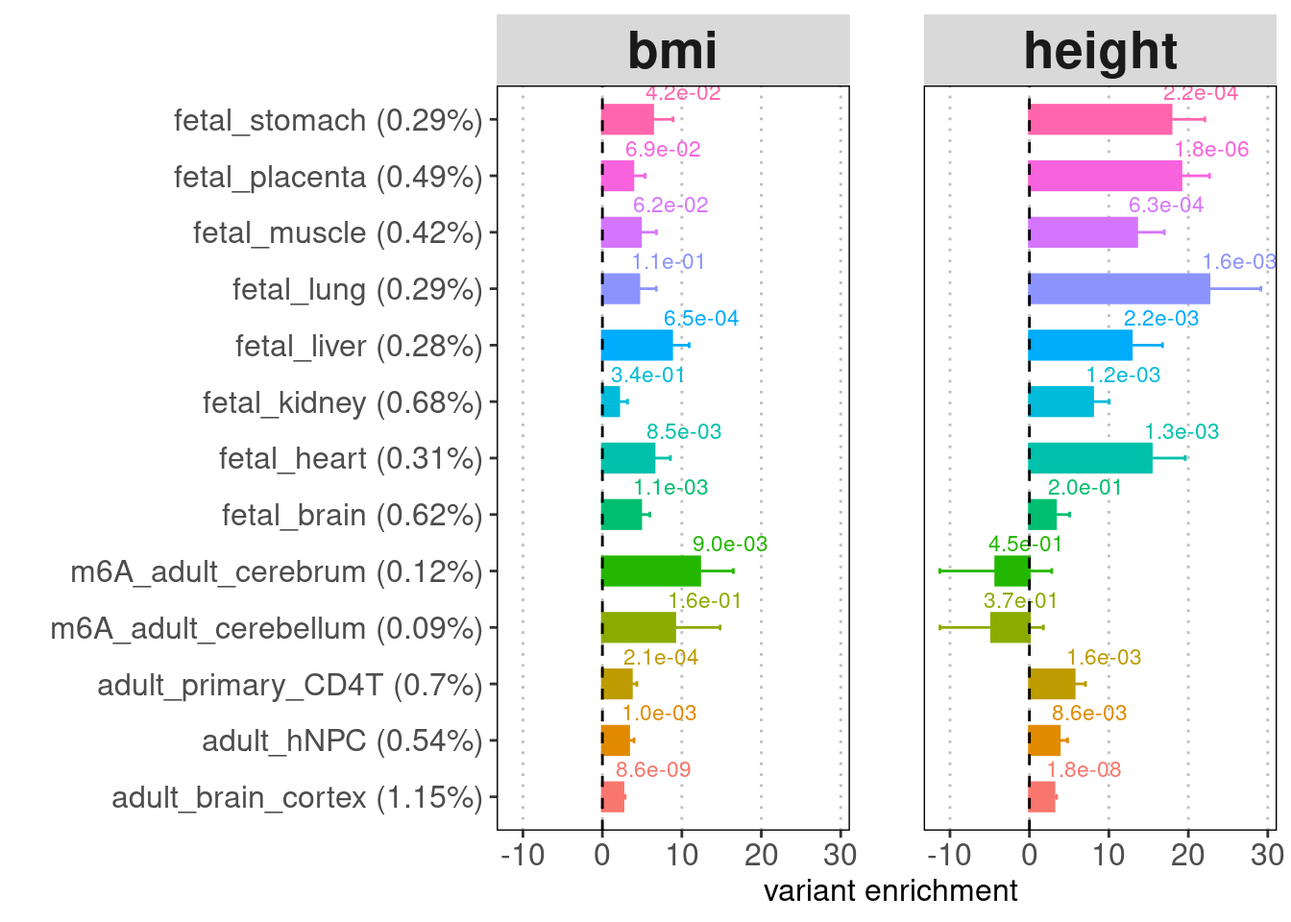
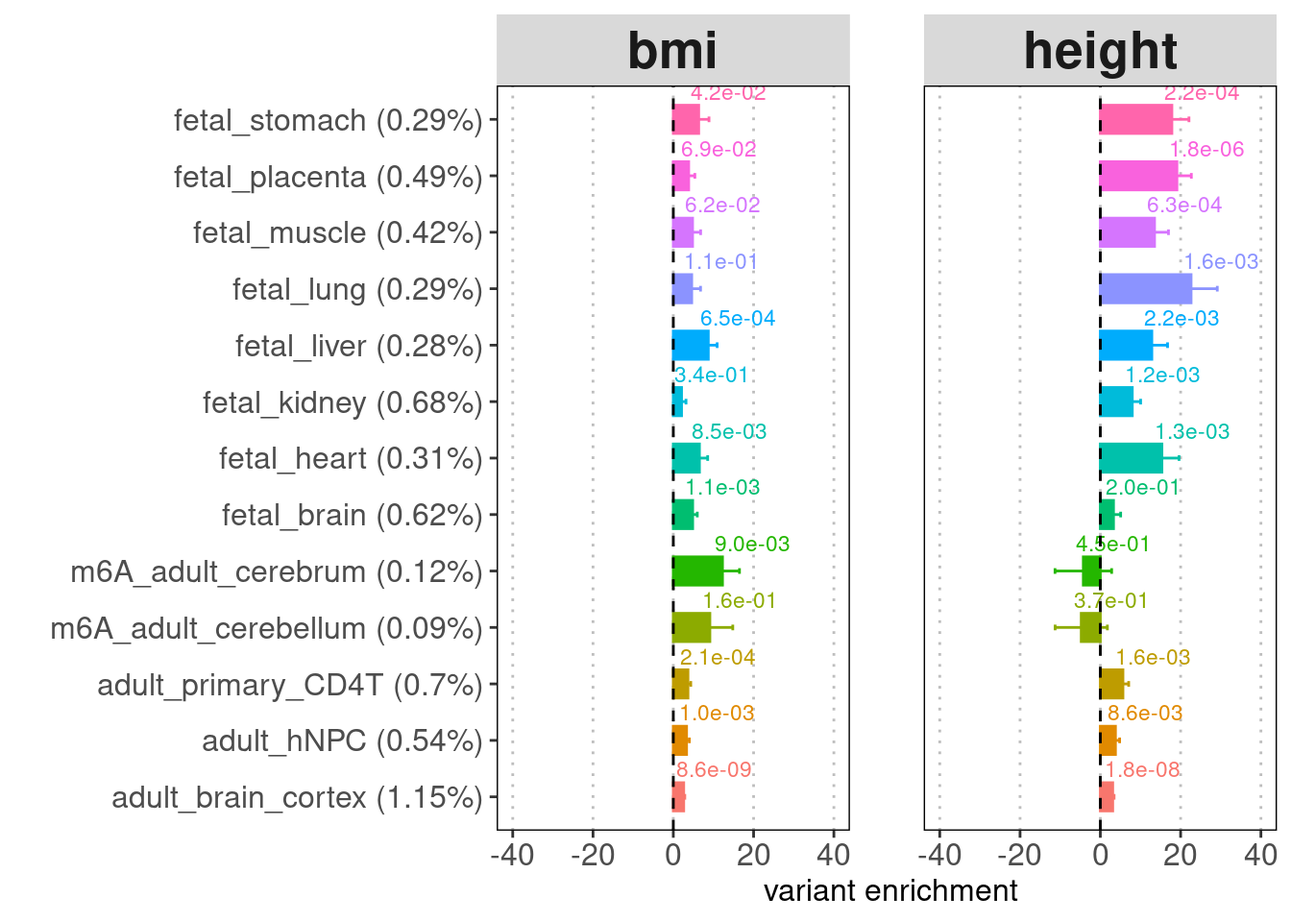
Build site.

diff --git a/docs/AD_h2g_enrichment.html b/docs/AD_h2g_enrichment.html
@@ -11,7 +11,7 @@
 
 <meta name="author" content="Jing Gu" />
 
-<meta name="date" content="2024-10-14" />
+<meta name="date" content="2024-10-15" />
 
 <title>AD Enrichment Analysis</title>
 
@@ -370,7 +370,7 @@ div.tocify {
 
 <h1 class="title toc-ignore">AD Enrichment Analysis</h1>
 <h4 class="author">Jing Gu</h4>
-<h4 class="date">2024-10-14</h4>
+<h4 class="date">2024-10-15</h4>
 
 </div>
 
@@ -399,7 +399,7 @@ class="glyphicon glyphicon-ok text-success" aria-hidden="true"></span>
 <div class="tab-content">
 <div id="summary" class="tab-pane fade in active">
 <p>
-<strong>Last updated:</strong> 2024-10-14
+<strong>Last updated:</strong> 2024-10-15
 </p>
 <p>
 <strong>Checks:</strong> <span
@@ -530,15 +530,15 @@ project makes it easier to run your code on other machines.</p>
 <div class="panel panel-default">
 <div class="panel-heading">
 <p class="panel-title">
-<a data-toggle="collapse" data-parent="#workflowr-checks" href="#strongRepositoryversionstrongahrefhttpsgithubcomj3gum6Aindiseasegeneticstreeaf7cb3190919c252fb5071c6749dc87c823ed3b1targetblankaf7cb31a">
+<a data-toggle="collapse" data-parent="#workflowr-checks" href="#strongRepositoryversionstrongahrefhttpsgithubcomj3gum6Aindiseasegeneticstree31b6e5592bc4c2b18f44aa31a9c635ad0a922a88targetblank31b6e55a">
 <span class="glyphicon glyphicon-ok text-success"
 aria-hidden="true"></span> <strong>Repository version:</strong>
-<a href="https://github.com/j3gu/m6A_in_disease_genetics/tree/af7cb3190919c252fb5071c6749dc87c823ed3b1" target="_blank">af7cb31</a>
+<a href="https://github.com/j3gu/m6A_in_disease_genetics/tree/31b6e5592bc4c2b18f44aa31a9c635ad0a922a88" target="_blank">31b6e55</a>
 </a>
 </p>
 </div>
 <div
[2 lines of base64/hex data omitted]
 class="panel-collapse collapse">
 <div class="panel-body">
 <p>
@@ -548,7 +548,7 @@ reproducibility.
 </p>
 <p>
 The results in this page were generated with repository version
-<a href="https://github.com/j3gu/m6A_in_disease_genetics/tree/af7cb3190919c252fb5071c6749dc87c823ed3b1" target="_blank">af7cb31</a>.
+<a href="https://github.com/j3gu/m6A_in_disease_genetics/tree/31b6e5592bc4c2b18f44aa31a9c635ad0a922a88" target="_blank">31b6e55</a>.
 See the <em>Past versions</em> tab to see a history of the changes made
 to the R Markdown and HTML files.
 </p>
@@ -826,6 +826,40 @@ Message
 Rmd
 </td>
 <td>
+<a href="https://github.com/j3gu/m6A_in_disease_genetics/blob/31b6e5592bc4c2b18f44aa31a9c635ad0a922a88/analysis/AD_h2g_enrichment.Rmd" target="_blank">31b6e55</a>
+</td>
+<td>
+Jing Gu
+</td>
+<td>
+2024-10-15
+</td>
+<td>
+make xlim ranges consistent
+</td>
+</tr>
+<tr>
+<td>
+html
+</td>
+<td>
+<a href="https://rawcdn.githack.com/j3gu/m6A_in_disease_genetics/87ec047f9ce70537b586d30c21213149fc693db0/docs/AD_h2g_enrichment.html" target="_blank">87ec047</a>
+</td>
+<td>
+Jing Gu
+</td>
+<td>
+2024-10-14
+</td>
+<td>
+Build site.
+</td>
+</tr>
+<tr>
+<td>
+Rmd
+</td>
+<td>
 <a href="https://github.com/j3gu/m6A_in_disease_genetics/blob/af7cb3190919c252fb5071c6749dc87c823ed3b1/analysis/AD_h2g_enrichment.Rmd" target="_blank">af7cb31</a>
 </td>
 <td>
@@ -889,73 +923,10 @@ m6A enrichment for AD risk variants
 <li>Baseline annotations from BaselineLD_v2.2</li>
 <li>m6A annotations one at a time</li>
 </ul>
-<pre><code> [1] &quot;base&quot;                                        
- [2] &quot;Coding_UCSC&quot;                                 
- [3] &quot;Conserved_LindbladToh&quot;                       
- [4] &quot;CTCF_Hoffman&quot;                                
- [5] &quot;DGF_ENCODE&quot;                                  
- [6] &quot;DHS_peaks_Trynka&quot;                            
- [7] &quot;DHS_Trynka&quot;                                  
- [8] &quot;Enhancer_Andersson&quot;                          
- [9] &quot;Enhancer_Hoffman&quot;                            
-[10] &quot;FetalDHS_Trynka&quot;                             
-[11] &quot;H3K27ac_Hnisz&quot;                               
-[12] &quot;H3K27ac_PGC2&quot;                                
-[13] &quot;H3K4me1_peaks_Trynka&quot;                        
-[14] &quot;H3K4me1_Trynka&quot;                              
-[15] &quot;H3K4me3_peaks_Trynka&quot;                        
-[16] &quot;H3K4me3_Trynka&quot;                              
-[17] &quot;H3K9ac_peaks_Trynka&quot;                         
-[18] &quot;H3K9ac_Trynka&quot;                               
-[19] &quot;Intron_UCSC&quot;                                 
-[20] &quot;PromoterFlanking_Hoffman&quot;                    
-[21] &quot;Promoter_UCSC&quot;                               
-[22] &quot;Repressed_Hoffman&quot;                           
-[23] &quot;SuperEnhancer_Hnisz&quot;                         
-[24] &quot;TFBS_ENCODE&quot;                                 
-[25] &quot;Transcr_Hoffman&quot;                             
-[26] &quot;TSS_Hoffman&quot;                                 
-[27] &quot;UTR_3_UCSC&quot;                                  
-[28] &quot;UTR_5_UCSC&quot;                                  
-[29] &quot;WeakEnhancer_Hoffman&quot;                        
-[30] &quot;GERP.NS&quot;                                     
-[31] &quot;GERP.RSsup4&quot;                                 
-[32] &quot;MAFbin1&quot;                                     
-[33] &quot;MAFbin2&quot;                                     
-[34] &quot;MAFbin3&quot;                                     
-[35] &quot;MAFbin4&quot;                                     
-[36] &quot;MAFbin5&quot;                                     
-[37] &quot;MAFbin6&quot;                                     
-[38] &quot;MAFbin7&quot;                                     
-[39] &quot;MAFbin8&quot;                                     
-[40] &quot;MAFbin9&quot;                                     
-[41] &quot;MAFbin10&quot;                                    
-[42] &quot;MAF_Adj_Predicted_Allele_Age&quot;                
-[43] &quot;MAF_Adj_LLD_AFR&quot;                             
-[44] &quot;Recomb_Rate_10kb&quot;                            
-[45] &quot;Nucleotide_Diversity_10kb&quot;                   
-[46] &quot;Backgrd_Selection_Stat&quot;                      
-[47] &quot;CpG_Content_50kb&quot;                            
-[48] &quot;MAF_Adj_ASMC&quot;                                
-[49] &quot;GTEx_eQTL_MaxCPP&quot;                            
-[50] &quot;BLUEPRINT_H3K27acQTL_MaxCPP&quot;                 
-[51] &quot;BLUEPRINT_H3K4me1QTL_MaxCPP&quot;                 
-[52] &quot;BLUEPRINT_DNA_methylation_MaxCPP&quot;            
-[53] &quot;synonymous&quot;                                  
-[54] &quot;non_synonymous&quot;                              
-[55] &quot;Conserved_Vertebrate_phastCons46way&quot;         
-[56] &quot;Conserved_Mammal_phastCons46way&quot;             
-[57] &quot;Conserved_Primate_phastCons46way&quot;            
-[58] &quot;BivFlnk&quot;                                     
-[59] &quot;Human_Promoter_Villar&quot;                       
-[60] &quot;Human_Enhancer_Villar&quot;                       
-[61] &quot;Ancient_Sequence_Age_Human_Promoter&quot;         
-[62] &quot;Ancient_Sequence_Age_Human_Enhancer&quot;         
-[63] &quot;Human_Enhancer_Villar_Species_Enhancer_Count&quot;
-[64] &quot;Human_Promoter_Villar_ExAC&quot;                  
-[65] &quot;m6A_hNPCL2_1&quot;                                </code></pre>
 <div class="datatables html-widget html-fill-item" id="htmlwidget-e89685ee235ec01b7f0d" style="width:100%;height:auto;"></div>
-<script type="application/json" data-for="htmlwidget-e89685ee235ec01b7f0d">{"x":{"filter":"none","vertical":false,"data":[["1","2","3","4","5","6","7","8","9","10","11","12","13","14","15","16","17","18","19","20","21","22","23","24","25","26","27","28","29","30","31","32","33","34","35","36","37","38","39","40","41","42","43","44","45","46","47","48","49","50","51","52","53","54","55","56","57","58","59","60","61","62","63","64","65"],["SuperEnhancer_Hnisz","Backgrd_Selection_Stat","MAF_Adj_ASMC","CpG_Content_50kb","H3K27ac_Hnisz","MAF_Adj_LLD_AFR","H3K27ac_PGC2","GTEx_eQTL_MaxCPP","BLUEPRINT_H3K4me1QTL_MaxCPP","Nucleotide_Diversity_10kb","BLUEPRINT_H3K27acQTL_MaxCPP","BLUEPRINT_DNA_methylation_MaxCPP","MAFbin1","Ancient_Sequence_Age_Human_Promoter","Human_Promoter_Villar","MAFbin9","Coding_UCSC","Promoter_UCSC","Repressed_Hoffman","MAFbin7","m6A_hNPCL2_1","MAFbin3","H3K4me3_Trynka","Enhancer_Andersson","GERP.NS","H3K4me1_Trynka","MAFbin4","synonymous","Enhancer_Hoffman","UTR_3_UCSC","MAF_Adj_Predicted_Allele_Age","GERP.RSsup4","Human_Promoter_Villar_ExAC","CTCF_Hoffman","Conserved_Primate_phastCons46way","MAFbin10","MAFbin8","Recomb_Rate_10kb","WeakEnhancer_Hoffman","Conserved_LindbladToh","H3K9ac_Trynka","non_synonymous","Conserved_Mammal_phastCons46way","Transcr_Hoffman","UTR_5_UCSC","Conserved_Vertebrate_phastCons46way","TSS_Hoffman","PromoterFlanking_Hoffman","MAFbin6","Human_Enhancer_Villar","H3K9ac_peaks_Trynka","DHS_Trynka","MAFbin2","TFBS_ENCODE","Intron_UCSC","BivFlnk","H3K4me1_peaks_Trynka","FetalDHS_Trynka","DGF_ENCODE","Human_Enhancer_Villar_Species_Enhancer_Count","DHS_peaks_Trynka","H3K4me3_peaks_Trynka","MAFbin5","Ancient_Sequence_Age_Human_Enhancer","base"],[2.94,1.42,19272235321995.4,1.44,2.17,-141.77,2.98,14.75,6.75,0.88,8.460000000000001,3.88,0.45,23.6,20.18,1.91,12.11,4.13,0.42,0.47,4.44,0.53,3.13,17.42,1.34,1.49,0.52,21.72,5.01,5.88,-58453.19,8.01,17.93,8.039999999999999,6.14,1.44,1.38,1.32,-3.81,7.23,2.66,23.22,5.58,1.23,5.74,3.5,3.8,3.85,1.16,1.76,2.76,0.45,1.11,1.69,1.07,2.79,1.65,1.54,1.44,1.5,0.63,0.28,1.04,1.17,1],["6.5e-09","2.2e-08","1.4e-06","1.5e-06","2.7e-06","8.2e-06","2.9e-05","3.7e-04","3.8e-04","1.3e-03","5.7e-03","9.8e-03","1.1e-02","1.9e-02","2.0e-02","2.3e-02","2.4e-02","2.5e-02","2.9e-02","4.7e-02","5.6e-02","6.5e-02","7.2e-02","7.7e-02","8.1e-02","8.2e-02","8.8e-02","9.0e-02","9.5e-02","1.0e-01","1.1e-01","1.1e-01","1.1e-01","1.2e-01","1.8e-01","2.0e-01","2.2e-01","2.3e-01","2.6e-01","2.8e-01","2.9e-01","3.1e-01","4.2e-01","4.9e-01","5.4e-01","5.6e-01","5.7e-01","6.3e-01","6.4e-01","6.4e-01","6.7e-01","6.8e-01","6.9e-01","6.9e-01","7.0e-01","7.3e-01","7.3e-01","7.6e-01","7.8e-01","7.9e-01","8.0e-01","8.5e-01","8.9e-01","9.8e-01","     NA"],[0.28,-0.19,-2.36,0.83,1.51,-0.84,2.07,3.07,1.64,0.02,1.8,0.54,-0.29,0.6899999999999999,0.86,2.43,-0.62,-0.9,0.46,-1.21,0.87,-0.25,1.35,1.56,-0.03,-0.51,-0.46,0.46,0.63,0.58,0.38,0.5600000000000001,-0.4,1.8,0.28,1.28,1.32,0.45,-1.31,0.58,-1,0.7,-0.02,1.04,-0.5,-1.15,-0.96,-0.54,0.92,1.43,0.19,-0.57,1.42,-0.72,-0.25,-0.57,0.04,0.21,0.36,0.13,-0.14,-1.13,0.77,-0.77,-1.92]],"container":"<table class=\"display\">\n  <thead>\n    <tr>\n      <th> <\/th>\n      <th>Category<\/th>\n      <th>Enrichment<\/th>\n      <th>Enrichment_p<\/th>\n      <th>Coefficient_z-score<\/th>\n    <\/tr>\n  <\/thead>\n<\/table>","options":{"columnDefs":[{"className":"dt-right","targets":[2,4]},{"orderable":false,"targets":0},{"name":" ","targets":0},{"name":"Category","targets":1},{"name":"Enrichment","targets":2},{"name":"Enrichment_p","targets":3},{"name":"Coefficient_z-score","targets":4}],"order":[],"autoWidth":false,"orderClasses":false}},"evals":[],"jsHooks":[]}</script>
+<script type="application/json" data-for="htmlwidget-e89685ee235ec01b7f0d">{"x":{"filter":"none","vertical":false,"caption":"<caption>A list of baseline annotations:<\/caption>","data":[["1","2","3","4","5","6","7","8","9","10","11","12","13","14","15","16","17","18","19","20","21","22","23","24","25","26","27","28","29","30","31","32","33","34","35","36","37","38","39","40","41","42","43","44","45","46","47","48","49","50","51","52","53","54","55","56","57","58","59","60","61","62","63","64","65"],["base","Coding_UCSC","Conserved_LindbladToh","CTCF_Hoffman","DGF_ENCODE","DHS_peaks_Trynka","DHS_Trynka","Enhancer_Andersson","Enhancer_Hoffman","FetalDHS_Trynka","H3K27ac_Hnisz","H3K27ac_PGC2","H3K4me1_peaks_Trynka","H3K4me1_Trynka","H3K4me3_peaks_Trynka","H3K4me3_Trynka","H3K9ac_peaks_Trynka","H3K9ac_Trynka","Intron_UCSC","PromoterFlanking_Hoffman","Promoter_UCSC","Repressed_Hoffman","SuperEnhancer_Hnisz","TFBS_ENCODE","Transcr_Hoffman","TSS_Hoffman","UTR_3_UCSC","UTR_5_UCSC","WeakEnhancer_Hoffman","GERP.NS","GERP.RSsup4","MAFbin1","MAFbin2","MAFbin3","MAFbin4","MAFbin5","MAFbin6","MAFbin7","MAFbin8","MAFbin9","MAFbin10","MAF_Adj_Predicted_Allele_Age","MAF_Adj_LLD_AFR","Recomb_Rate_10kb","Nucleotide_Diversity_10kb","Backgrd_Selection_Stat","CpG_Content_50kb","MAF_Adj_ASMC","GTEx_eQTL_MaxCPP","BLUEPRINT_H3K27acQTL_MaxCPP","BLUEPRINT_H3K4me1QTL_MaxCPP","BLUEPRINT_DNA_methylation_MaxCPP","synonymous","non_synonymous","Conserved_Vertebrate_phastCons46way","Conserved_Mammal_phastCons46way","Conserved_Primate_phastCons46way","BivFlnk","Human_Promoter_Villar","Human_Enhancer_Villar","Ancient_Sequence_Age_Human_Promoter","Ancient_Sequence_Age_Human_Enhancer","Human_Enhancer_Villar_Species_Enhancer_Count","Human_Promoter_Villar_ExAC","m6A_hNPCL2_1"]],"container":"<table class=\"display\">\n  <thead>\n    <tr>\n      <th> <\/th>\n      <th>annotations<\/th>\n    <\/tr>\n  <\/thead>\n<\/table>","options":{"columnDefs":[{"orderable":false,"targets":0},{"name":" ","targets":0},{"name":"annotations","targets":1}],"order":[],"autoWidth":false,"orderClasses":false}},"evals":[],"jsHooks":[]}</script>
+<div class="datatables html-widget html-fill-item" id="htmlwidget-71dc364d120a2d9f4a5e" style="width:100%;height:auto;"></div>
+<script type="application/json" data-for="htmlwidget-71dc364d120a2d9f4a5e">{"x":{"filter":"none","vertical":false,"data":[["1","2","3","4","5","6","7","8","9","10","11","12","13","14","15","16","17","18","19","20","21","22","23","24","25","26","27","28","29","30","31","32","33","34","35","36","37","38","39","40","41","42","43","44","45","46","47","48","49","50","51","52","53","54","55","56","57","58","59","60","61","62","63","64","65"],["SuperEnhancer_Hnisz","Backgrd_Selection_Stat","MAF_Adj_ASMC","CpG_Content_50kb","H3K27ac_Hnisz","MAF_Adj_LLD_AFR","H3K27ac_PGC2","GTEx_eQTL_MaxCPP","BLUEPRINT_H3K4me1QTL_MaxCPP","Nucleotide_Diversity_10kb","BLUEPRINT_H3K27acQTL_MaxCPP","BLUEPRINT_DNA_methylation_MaxCPP","MAFbin1","Ancient_Sequence_Age_Human_Promoter","Human_Promoter_Villar","MAFbin9","Coding_UCSC","Promoter_UCSC","Repressed_Hoffman","MAFbin7","m6A_hNPCL2_1","MAFbin3","H3K4me3_Trynka","Enhancer_Andersson","GERP.NS","H3K4me1_Trynka","MAFbin4","synonymous","Enhancer_Hoffman","UTR_3_UCSC","MAF_Adj_Predicted_Allele_Age","GERP.RSsup4","Human_Promoter_Villar_ExAC","CTCF_Hoffman","Conserved_Primate_phastCons46way","MAFbin10","MAFbin8","Recomb_Rate_10kb","WeakEnhancer_Hoffman","Conserved_LindbladToh","H3K9ac_Trynka","non_synonymous","Conserved_Mammal_phastCons46way","Transcr_Hoffman","UTR_5_UCSC","Conserved_Vertebrate_phastCons46way","TSS_Hoffman","PromoterFlanking_Hoffman","MAFbin6","Human_Enhancer_Villar","H3K9ac_peaks_Trynka","DHS_Trynka","MAFbin2","TFBS_ENCODE","Intron_UCSC","BivFlnk","H3K4me1_peaks_Trynka","FetalDHS_Trynka","DGF_ENCODE","Human_Enhancer_Villar_Species_Enhancer_Count","DHS_peaks_Trynka","H3K4me3_peaks_Trynka","MAFbin5","Ancient_Sequence_Age_Human_Enhancer","base"],[2.94,1.42,19272235321995.4,1.44,2.17,-141.77,2.98,14.75,6.75,0.88,8.460000000000001,3.88,0.45,23.6,20.18,1.91,12.11,4.13,0.42,0.47,4.44,0.53,3.13,17.42,1.34,1.49,0.52,21.72,5.01,5.88,-58453.19,8.01,17.93,8.039999999999999,6.14,1.44,1.38,1.32,-3.81,7.23,2.66,23.22,5.58,1.23,5.74,3.5,3.8,3.85,1.16,1.76,2.76,0.45,1.11,1.69,1.07,2.79,1.65,1.54,1.44,1.5,0.63,0.28,1.04,1.17,1],["6.5e-09","2.2e-08","1.4e-06","1.5e-06","2.7e-06","8.2e-06","2.9e-05","3.7e-04","3.8e-04","1.3e-03","5.7e-03","9.8e-03","1.1e-02","1.9e-02","2.0e-02","2.3e-02","2.4e-02","2.5e-02","2.9e-02","4.7e-02","5.6e-02","6.5e-02","7.2e-02","7.7e-02","8.1e-02","8.2e-02","8.8e-02","9.0e-02","9.5e-02","1.0e-01","1.1e-01","1.1e-01","1.1e-01","1.2e-01","1.8e-01","2.0e-01","2.2e-01","2.3e-01","2.6e-01","2.8e-01","2.9e-01","3.1e-01","4.2e-01","4.9e-01","5.4e-01","5.6e-01","5.7e-01","6.3e-01","6.4e-01","6.4e-01","6.7e-01","6.8e-01","6.9e-01","6.9e-01","7.0e-01","7.3e-01","7.3e-01","7.6e-01","7.8e-01","7.9e-01","8.0e-01","8.5e-01","8.9e-01","9.8e-01","     NA"],[0.28,-0.19,-2.36,0.83,1.51,-0.84,2.07,3.07,1.64,0.02,1.8,0.54,-0.29,0.6899999999999999,0.86,2.43,-0.62,-0.9,0.46,-1.21,0.87,-0.25,1.35,1.56,-0.03,-0.51,-0.46,0.46,0.63,0.58,0.38,0.5600000000000001,-0.4,1.8,0.28,1.28,1.32,0.45,-1.31,0.58,-1,0.7,-0.02,1.04,-0.5,-1.15,-0.96,-0.54,0.92,1.43,0.19,-0.57,1.42,-0.72,-0.25,-0.57,0.04,0.21,0.36,0.13,-0.14,-1.13,0.77,-0.77,-1.92]],"container":"<table class=\"display\">\n  <thead>\n    <tr>\n      <th> <\/th>\n      <th>Category<\/th>\n      <th>Enrichment<\/th>\n      <th>Enrichment_p<\/th>\n      <th>Coefficient_z-score<\/th>\n    <\/tr>\n  <\/thead>\n<\/table>","options":{"columnDefs":[{"className":"dt-right","targets":[2,4]},{"orderable":false,"targets":0},{"name":" ","targets":0},{"name":"Category","targets":1},{"name":"Enrichment","targets":2},{"name":"Enrichment_p","targets":3},{"name":"Coefficient_z-score","targets":4}],"order":[],"autoWidth":false,"orderClasses":false}},"evals":[],"jsHooks":[]}</script>
 </div>
 <div id="collecting-m6a-peaks" class="section level2">
 <h2>Collecting m6A peaks</h2>
@@ -971,8 +942,8 @@ m6A enrichment for AD risk variants
 8  Stomach  67  195  300 504.25  4869
 9   merged  54  184  290    514 18918</code></pre>
 <pre><code>[1] &quot;Adult m6A peaks quantiles:&quot;</code></pre>
-<div class="datatables html-widget html-fill-item" id="htmlwidget-71dc364d120a2d9f4a5e" style="width:100%;height:auto;"></div>
-<script type="application/json" data-for="htmlwidget-71dc364d120a2d9f4a5e">{"x":{"filter":"none","vertical":false,"data":[["1","2","3","4","5","6","7","8","9","10"],["brain","brain_cortex","fibroblasts","gliblastoma_stem_cells","hNPC","lymphoblastoid_cell_line","primary_CD4+_T","m6A_adult_cerebellum","m6A_adult_cerebrum","m6A_adult_hypothalamus"],["80","78","78","78","78","77","77","143","92","271"],["91","111","130","131","131","111","141","149","108","274"],["121","181","174","181","181","165","188","177","154","278"],["180","335","274","283","301","260","307","226","210","286"],["61956","863470","273494","258776","273064","258816","185099","298","627","308"]],"container":"<table class=\"display\">\n  <thead>\n    <tr>\n      <th> <\/th>\n      <th>V1<\/th>\n      <th>X0.<\/th>\n      <th>X25.<\/th>\n      <th>X50.<\/th>\n      <th>X75.<\/th>\n      <th>X100.<\/th>\n    <\/tr>\n  <\/thead>\n<\/table>","options":{"columnDefs":[{"orderable":false,"targets":0},{"name":" ","targets":0},{"name":"V1","targets":1},{"name":"X0.","targets":2},{"name":"X25.","targets":3},{"name":"X50.","targets":4},{"name":"X75.","targets":5},{"name":"X100.","targets":6}],"order":[],"autoWidth":false,"orderClasses":false}},"evals":[],"jsHooks":[]}</script>
+<div class="datatables html-widget html-fill-item" id="htmlwidget-c79a440f42a2c511b591" style="width:100%;height:auto;"></div>
+<script type="application/json" data-for="htmlwidget-c79a440f42a2c511b591">{"x":{"filter":"none","vertical":false,"data":[["1","2","3","4","5","6","7","8","9","10"],["brain","brain_cortex","fibroblasts","gliblastoma_stem_cells","hNPC","lymphoblastoid_cell_line","primary_CD4+_T","m6A_adult_cerebellum","m6A_adult_cerebrum","m6A_adult_hypothalamus"],["80","78","78","78","78","77","77","143","92","271"],["91","111","130","131","131","111","141","149","108","274"],["121","181","174","181","181","165","188","177","154","278"],["180","335","274","283","301","260","307","226","210","286"],["61956","863470","273494","258776","273064","258816","185099","298","627","308"]],"container":"<table class=\"display\">\n  <thead>\n    <tr>\n      <th> <\/th>\n      <th>V1<\/th>\n      <th>X0.<\/th>\n      <th>X25.<\/th>\n      <th>X50.<\/th>\n      <th>X75.<\/th>\n      <th>X100.<\/th>\n    <\/tr>\n  <\/thead>\n<\/table>","options":{"columnDefs":[{"orderable":false,"targets":0},{"name":" ","targets":0},{"name":"V1","targets":1},{"name":"X0.","targets":2},{"name":"X25.","targets":3},{"name":"X50.","targets":4},{"name":"X75.","targets":5},{"name":"X100.","targets":6}],"order":[],"autoWidth":false,"orderClasses":false}},"evals":[],"jsHooks":[]}</script>
 </div>
 <div id="enrichment-results-in-barplots" class="section level2">
 <h2>Enrichment results in barplots</h2>
@@ -983,17 +954,165 @@ fall in the annotation peaks)</li>
 </ul>
 <pre><code>[[1]]</code></pre>
 <p><img src="figure/AD_h2g_enrichment.Rmd/unnamed-chunk-4-1.png" width="672" style="display: block; margin: auto;" /></p>
+<p>
+<button type="button" class="btn btn-default btn-xs btn-workflowr btn-workflowr-fig" data-toggle="collapse" data-target="#fig-unnamed-chunk-4-1">
+Past versions of unnamed-chunk-4-1.png
+</button>
+</p>
+<div id="fig-unnamed-chunk-4-1" class="collapse">
+<div class="table-responsive">
+<table class="table table-condensed table-hover">
+<thead>
+<tr>
+<th>
+Version
+</th>
+<th>
+Author
+</th>
+<th>
+Date
+</th>
+</tr>
+</thead>
+<tbody>
+<tr>
+<td>
+<a href="https://github.com/j3gu/m6A_in_disease_genetics/blob/87ec047f9ce70537b586d30c21213149fc693db0/docs/figure/AD_h2g_enrichment.Rmd/unnamed-chunk-4-1.png" target="_blank">87ec047</a>
+</td>
+<td>
+Jing Gu
+</td>
+<td>
+2024-10-14
+</td>
+</tr>
+</tbody>
+</table>
+</div>
+</div>
 <pre><code>
 [[2]]</code></pre>
 <p><img src="figure/AD_h2g_enrichment.Rmd/unnamed-chunk-4-2.png" width="672" style="display: block; margin: auto;" /></p>
+<p>
+<button type="button" class="btn btn-default btn-xs btn-workflowr btn-workflowr-fig" data-toggle="collapse" data-target="#fig-unnamed-chunk-4-2">
+Past versions of unnamed-chunk-4-2.png
+</button>
+</p>
+<div id="fig-unnamed-chunk-4-2" class="collapse">
+<div class="table-responsive">
+<table class="table table-condensed table-hover">
+<thead>
+<tr>
+<th>
+Version
+</th>
+<th>
+Author
+</th>
+<th>
+Date
+</th>
+</tr>
+</thead>
+<tbody>
+<tr>
+<td>
+<a href="https://github.com/j3gu/m6A_in_disease_genetics/blob/87ec047f9ce70537b586d30c21213149fc693db0/docs/figure/AD_h2g_enrichment.Rmd/unnamed-chunk-4-2.png" target="_blank">87ec047</a>
+</td>
+<td>
+Jing Gu
+</td>
+<td>
+2024-10-14
+</td>
+</tr>
+</tbody>
+</table>
+</div>
+</div>
 <pre><code>
 [[3]]</code></pre>
 <p><img src="figure/AD_h2g_enrichment.Rmd/unnamed-chunk-4-3.png" width="672" style="display: block; margin: auto;" /></p>
+<p>
+<button type="button" class="btn btn-default btn-xs btn-workflowr btn-workflowr-fig" data-toggle="collapse" data-target="#fig-unnamed-chunk-4-3">
+Past versions of unnamed-chunk-4-3.png
+</button>
+</p>
+<div id="fig-unnamed-chunk-4-3" class="collapse">
+<div class="table-responsive">
+<table class="table table-condensed table-hover">
+<thead>
+<tr>
+<th>
+Version
+</th>
+<th>
+Author
+</th>
+<th>
+Date
+</th>
+</tr>
+</thead>
+<tbody>
+<tr>
+<td>
+<a href="https://github.com/j3gu/m6A_in_disease_genetics/blob/87ec047f9ce70537b586d30c21213149fc693db0/docs/figure/AD_h2g_enrichment.Rmd/unnamed-chunk-4-3.png" target="_blank">87ec047</a>
+</td>
+<td>
+Jing Gu
+</td>
+<td>
+2024-10-14
+</td>
+</tr>
+</tbody>
+</table>
+</div>
+</div>
 <pre><code>
 [[4]]</code></pre>
 <p><img src="figure/AD_h2g_enrichment.Rmd/unnamed-chunk-4-4.png" width="672" style="display: block; margin: auto;" /></p>
-<div class="datatables html-widget html-fill-item" id="htmlwidget-c79a440f42a2c511b591" style="width:100%;height:auto;"></div>
-<script type="application/json" data-for="htmlwidget-c79a440f42a2c511b591">{"x":{"filter":"none","vertical":false,"data":[["9852","9853","9854","9855","9856","9857","9858","9859","9860","9861","9862","9863","9864","9865","9866","9867","9868","9869","9870","9871","9872","9873","9874","9875","9876","9877"],["scz","scz","scz","scz","scz","scz","scz","scz","scz","scz","scz","scz","scz","AD","AD","AD","AD","AD","AD","AD","AD","AD","AD","AD","AD","AD"],["adult_brain_cortex","fetal_brain","fetal_heart","fetal_kidney","fetal_liver","fetal_lung","fetal_muscle","fetal_placenta","fetal_stomach","adult_hNPC","adult_primary_CD4T","m6A_adult_cerebellum","m6A_adult_cerebrum","adult_brain_cortex","fetal_brain","fetal_heart","fetal_kidney","fetal_liver","fetal_lung","fetal_muscle","fetal_placenta","fetal_stomach","adult_hNPC","adult_primary_CD4T","m6A_adult_cerebellum","m6A_adult_cerebrum"],["1.1528%","0.6209%","0.3103%","0.6849%","0.2760%","0.2911%","0.4198%","0.4944%","0.2852%","0.5358%","0.6980%","0.0937%","0.1223%","1.1528%","0.6209%","0.3103%","0.6849%","0.2760%","0.2911%","0.4198%","0.4944%","0.2852%","0.5358%","0.6980%","0.0937%","0.1223%"],["2.362% ","5.422% ","1.680% ","1.190% ","1.423% ","0.856% ","1.073% ","1.850% ","1.434% ","1.255% ","1.639% ","0.446% ","1.792% ","7.913% ","2.586% ","0.721% ","2.847% ","-0.760%","-3.705%","-0.003%","3.916% ","-0.585%","2.378% ","10.257%","-2.054%","-1.315%"],["  2.0489","  8.7323","  5.4163","  1.7369","  5.1548","  2.9410","  2.5553","  3.7425","  5.0284","  2.3428","  2.3487","  4.7571"," 14.6594","  6.8640","  4.1654","  2.3239","  4.1574"," -2.7520","-12.7271"," -0.0081","  7.9216"," -2.0506","  4.4373"," 14.6960","-21.9206","-10.7578"],["6.3e-03","2.6e-05","2.1e-01","5.9e-01","1.5e-01","4.7e-01","4.3e-01","1.9e-01","2.4e-01","1.9e-02","1.4e-01","5.7e-01","2.8e-02","1.6e-01","5.5e-01","8.8e-01","6.6e-01","6.7e-01","6.5e-02","9.0e-01","4.2e-01","7.4e-01","5.6e-02","5.6e-02","2.8e-01","3.7e-01"]],"container":"<table class=\"display\">\n  <thead>\n    <tr>\n      <th> <\/th>\n      <th>trait<\/th>\n      <th>Category<\/th>\n      <th>Prop_SNPs<\/th>\n      <th>Prop_h2<\/th>\n      <th>Enrichment<\/th>\n      <th>Enrichment_p<\/th>\n    <\/tr>\n  <\/thead>\n<\/table>","options":{"columnDefs":[{"orderable":false,"targets":0},{"name":" ","targets":0},{"name":"trait","targets":1},{"name":"Category","targets":2},{"name":"Prop_SNPs","targets":3},{"name":"Prop_h2","targets":4},{"name":"Enrichment","targets":5},{"name":"Enrichment_p","targets":6}],"order":[],"autoWidth":false,"orderClasses":false}},"evals":[],"jsHooks":[]}</script>
+<p>
+<button type="button" class="btn btn-default btn-xs btn-workflowr btn-workflowr-fig" data-toggle="collapse" data-target="#fig-unnamed-chunk-4-4">
+Past versions of unnamed-chunk-4-4.png
+</button>
+</p>
+<div id="fig-unnamed-chunk-4-4" class="collapse">
+<div class="table-responsive">
+<table class="table table-condensed table-hover">
+<thead>
+<tr>
+<th>
+Version
+</th>
+<th>
+Author
+</th>
+<th>
+Date
+</th>
+</tr>
+</thead>
+<tbody>
+<tr>
+<td>
+<a href="https://github.com/j3gu/m6A_in_disease_genetics/blob/87ec047f9ce70537b586d30c21213149fc693db0/docs/figure/AD_h2g_enrichment.Rmd/unnamed-chunk-4-4.png" target="_blank">87ec047</a>
+</td>
+<td>
+Jing Gu
+</td>
+<td>
+2024-10-14
+</td>
+</tr>
+</tbody>
+</table>
+</div>
+</div>
+<div class="datatables html-widget html-fill-item" id="htmlwidget-aa50999e75f10e853e03" style="width:100%;height:auto;"></div>
+<script type="application/json" data-for="htmlwidget-aa50999e75f10e853e03">{"x":{"filter":"none","vertical":false,"data":[["9852","9853","9854","9855","9856","9857","9858","9859","9860","9861","9862","9863","9864","9865","9866","9867","9868","9869","9870","9871","9872","9873","9874","9875","9876","9877"],["scz","scz","scz","scz","scz","scz","scz","scz","scz","scz","scz","scz","scz","AD","AD","AD","AD","AD","AD","AD","AD","AD","AD","AD","AD","AD"],["adult_brain_cortex","fetal_brain","fetal_heart","fetal_kidney","fetal_liver","fetal_lung","fetal_muscle","fetal_placenta","fetal_stomach","adult_hNPC","adult_primary_CD4T","m6A_adult_cerebellum","m6A_adult_cerebrum","adult_brain_cortex","fetal_brain","fetal_heart","fetal_kidney","fetal_liver","fetal_lung","fetal_muscle","fetal_placenta","fetal_stomach","adult_hNPC","adult_primary_CD4T","m6A_adult_cerebellum","m6A_adult_cerebrum"],["1.1528%","0.6209%","0.3103%","0.6849%","0.2760%","0.2911%","0.4198%","0.4944%","0.2852%","0.5358%","0.6980%","0.0937%","0.1223%","1.1528%","0.6209%","0.3103%","0.6849%","0.2760%","0.2911%","0.4198%","0.4944%","0.2852%","0.5358%","0.6980%","0.0937%","0.1223%"],["2.362% ","5.422% ","1.680% ","1.190% ","1.423% ","0.856% ","1.073% ","1.850% ","1.434% ","1.255% ","1.639% ","0.446% ","1.792% ","7.913% ","2.586% ","0.721% ","2.847% ","-0.760%","-3.705%","-0.003%","3.916% ","-0.585%","2.378% ","10.257%","-2.054%","-1.315%"],["  2.0489","  8.7323","  5.4163","  1.7369","  5.1548","  2.9410","  2.5553","  3.7425","  5.0284","  2.3428","  2.3487","  4.7571"," 14.6594","  6.8640","  4.1654","  2.3239","  4.1574"," -2.7520","-12.7271"," -0.0081","  7.9216"," -2.0506","  4.4373"," 14.6960","-21.9206","-10.7578"],["6.3e-03","2.6e-05","2.1e-01","5.9e-01","1.5e-01","4.7e-01","4.3e-01","1.9e-01","2.4e-01","1.9e-02","1.4e-01","5.7e-01","2.8e-02","1.6e-01","5.5e-01","8.8e-01","6.6e-01","6.7e-01","6.5e-02","9.0e-01","4.2e-01","7.4e-01","5.6e-02","5.6e-02","2.8e-01","3.7e-01"]],"container":"<table class=\"display\">\n  <thead>\n    <tr>\n      <th> <\/th>\n      <th>trait<\/th>\n      <th>Category<\/th>\n      <th>Prop_SNPs<\/th>\n      <th>Prop_h2<\/th>\n      <th>Enrichment<\/th>\n      <th>Enrichment_p<\/th>\n    <\/tr>\n  <\/thead>\n<\/table>","options":{"columnDefs":[{"orderable":false,"targets":0},{"name":" ","targets":0},{"name":"trait","targets":1},{"name":"Category","targets":2},{"name":"Prop_SNPs","targets":3},{"name":"Prop_h2","targets":4},{"name":"Enrichment","targets":5},{"name":"Enrichment_p","targets":6}],"order":[],"autoWidth":false,"orderClasses":false}},"evals":[],"jsHooks":[]}</script>
 <br>
 <p>
 <button type="button" class="btn btn-default btn-workflowr btn-workflowr-sessioninfo" data-toggle="collapse" data-target="#workflowr-sessioninfo" style="display: block;">
